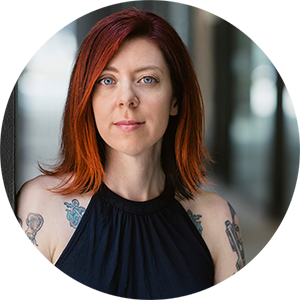
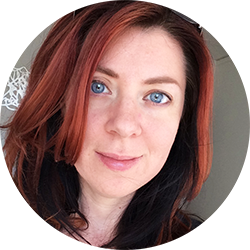
Update About page with edited text and new photo

diff --git a/about/index.html b/about/index.html
@@ -7,61 +7,13 @@ title: About
 
 <p>I’m a technologist and writer in Chicago. <!-- I make the <a href="http://antiheroinepodcast.com">Antiheroine</a> podcast -->I publish a weekly email newsletter called <a href="https://modernadventuress.com">Modern Adventuress</a> and write other things here and there around the internet.</p>
 
-<p>I have a background as a front-end web developer, tech educator and a diversity and inclusion advocate. In 2011, I became a chapter founder and teacher with <a href="http://girldevelopit.com">Girl Develop It</a>, a nonprofit organization aimed at providing coding classes for women, and in 2013 I founded and taught <a href="http://codeandcupcakes.net">Code and Cupcakes Chicago</a>, a series of coding workshops for mothers and daughters. I currently am a Senior Curriculum Developer at <a href="http://flatironschool.com">Flatiron School</a>. I have <a href="{{ site.baseurl }}/speaking/">spoken</a> extensively about web design and development, diversity/inclusion and tech education, and I sometimes <a href="{{ site.baseurl }}/mentoring/">mentor</a> beginning tech speakers from underrepresented minorities.</p>
+<p>I have a background as a front-end web developer, tech educator and a diversity and inclusion advocate. In 2011, I founded the Columbus, Ohio chapter of <a href="http://girldevelopit.com">Girl Develop It</a>, a nonprofit organization aimed at providing coding classes for women, and in 2013 I founded and taught <a href="http://codeandcupcakes.net">Code and Cupcakes Chicago</a>, a series of coding workshops for mothers and daughters. I currently am a senior curriculum writer at <a href="http://flatironschool.com">Flatiron School</a>. I have <a href="{{ site.baseurl }}/speaking/">spoken</a> widely about web design and development, diversity/inclusion and tech education, and I sometimes <a href="{{ site.baseurl }}/mentoring/">mentor</a> beginning tech speakers from underrepresented minorities.</p>
 
-<p>You can follow me on <a href="http://twitter.com/antiheroine">Twitter</a>. You can see my read books at <a href="http://goodreads.com/jenmyers">Goodreads</a> and watched films at <a href="http://letterboxd.com/jenmyers">Letterboxd</a>. I keep a comprehensive yearly <a href="{{ site.baseurl }}/log/">media log</a> as well. You can also send me actual mail, which might receive actual mail in return, at:</p>
+<p>I keep a comprehensive yearly <a href="{{ site.baseurl }}/log/">media log</a> if you're interested in the books, films, podcasts and performances I take in.</p>
+
+<p>You can follow me on Twitter at <a href="http://twitter.com/antiheroine">@antiheroine</a>. You can send me email at <a href="mailto:hello@jenmyers.net">hello@jenmyers.net</a>. You can also send me actual mail, which might receive actual mail in return, at:</p>
 
 <address>
-  P.O. Box #13114<br />
+  P.O. Box 13114<br />
   Chicago, IL 60613<br />
 </address>
-
-<h4 class="content-heading">Activities</h4>
-
-<ul>
-  <li><a href="http://railsgirlssummerofcode.org/">Rails Girls Summer of Code</a> Trust Committee member, 2014 &amp; 2015</li>
-  <li></li>
-  <li><a href="http://www.codemash.org/">Codemash</a> Design track selection, 2015 &amp; 2016</li>
-  <li><a href="http://sassconf.com/blog/posts/cfp-mentor-team/">SassConf mentoring team</a> member, 2015</li>
-  <li><a href="http://clojurecup.com/">Clojure Cup judge, 2013 &amp; 2014</a></li>
-</ul>
-
-<h4 class="content-heading">Interviews/Articles</h4>
-
-<ul>
-  <li><a href="https://usesthis.com/interviews/jen.myers/">The Setup interview</a></li>
-  <li><a href="http://www.brit.co/how-learning-to-code-changed-the-lives-of-these-6-moms/">Brit.co interview with Girl Develop It mothers</a></li>
-  <li><a href="http://chicagoinno.streetwise.co/2015/04/21/mother-daughter-programming-workshop-brings-women-together-over-code-and-cupcakes/">ChicagoInno article/interview about Code and Cupcakes</a></li>
-  <li><a href="http://www.dnainfo.com/chicago/20150220/pilsen/code-cupcakes-brings-mothers-daughters-together-over-programming">DNAinfo Chicago article/interview about Code and Cupcakes</a></li>
-  <li><a href="http://www.themarysue.com/jen-myers-code-and-cupcakes-interview/"><em>The Mary Sue</em> interview</a></li>
-  <li><a href="http://www.themarysue.com/code-and-cupcakes-workshop/"><em>The Mary Sue</em> article on Code and Cupcakes</a></li>
-  <li><a href="http://www.huffingtonpost.com/2015/01/06/code-and-cupcakes-moms-daughters-coding-workshop_n_6419666.html"><em>Huffington Post Chicago</em> article on Code and Cupcakes</a></li>
-  <li><a href="http://www.motherboardpodcast.com/episode-7-jen-myers/">Motherboard podcast interview</a></li>
-  <li><a href="http://ms-tech.co/10-women-impacting-tech-startup-scene-chicago-ii/">"Ten women impacting the tech startup scene in Chicago"</a></li>
-  <li><a href="http://dotnetrocks.com/default.aspx?showNum=1053">.NET Rocks podcast interview</a></li>
-  <li><a href="http://wgntv.com/2014/10/20/your-money-matters-code-and-cupcakes/">WGN midday news spot on Code and Cupcakes</a></li>
-  <li><a href="http://www.chicagotribune.com/bluesky/originals/chi-jen-myers-code-and-cupcakes-bsi-20140930-story.html"><em>Chicago Tribune Blue Sky Innovation</em> article on Code and Cupcakes</a></li>
-  <li><a href="http://hoist.io/blog/hoist-interviews-wdcnz-jen-myers/">Hoist interview at WDCNZ</a></li>
-  <li><a href="http://www.cfhour.com/post.cfm/show-215-conferences-keynotes-diversity-and-more">CFHour Podcast interview</a></li>
-  <li><a href="http://www.gomediazine.com/insights/learn-to-code-quick-tips/">Learn to Code: Tips for Designers</a></li>
-  <li><a href="http://digitalocean.com/blog_posts/20-developers-to-follow-in-2014">Digital Ocean's 20 Developers to Follow in 2014</a></li>
-  <li><a href="http://thetabletshow.com/?ShowNum=110">The Tablet Show podcast interview</a></li>
-  <li><a href="http://theweek.com/article/index/244732/5-women-busting-through-the-tech-industrys-glass-ceiling">"5 women busting through the tech industry's glass ceiling," <em>The Week</em></a></li>
-  <li><a href="http://chicago.cbslocal.com/video/8543310-coding-boot-camp-class-pops-up-in-chicago/">CBS Chicago television interview on Dev Bootcamp</a></li>
-  <li><a href="http://strangeloop.libsyn.com/strange-loop-8-a-cornucopia-of-diversity">Strange Loop podcast interview at Codemash</a></li>
-  <li><a href="http://www.dispatch.com/content/stories/life_and_entertainment/2012/11/26/defying-gender-codes.html">"Defying Gender Codes," <em>Columbus Dispatch</em></a></li>
-  <li><a href="http://ugtastic.com/interviews/the-digital-natives-are-restless">UGtastic video interview at SCNA</a></li>
-  <li><a href="http://blog.runtimeexpectations.com/rte/2012/11/28/runtime-expectations-at-clojure-conj-2012/">Runtime Expectations podcast interview at Clojure Conj</a></li>
-  <li><a href="http://www.engineyard.com/podcast/s02e09-girl-develop-it">Engine Yard "Chicks Who Rip" podcast interview</a></li>
-  <li><a href="http://wmcfest.com/blog/speakers/jen-myers/">Weapons of Mass Creation Fest speaker blog interview</a></li>
-  <li><a href="http://thinkrelevance.com/blog/2012/05/04/thinkrelevance-the-podcast-episode-011-jen-myers">ThinkRelevance podcast interview</a></li>
-</ul>
-
-<!-- <h4 class="content-heading">Selected Interviews/Articles</h4>
-
-<ul>
-  <li><a href="http://www.themarysue.com/jen-myers-code-and-cupcakes-interview/"><em>The Mary Sue</em> interview</a></li>
-  <li><a href="http://www.themarysue.com/code-and-cupcakes-workshop/"><em>The Mary Sue</em> article on Code and Cupcakes</a></li>
-  <li><a href="http://www.huffingtonpost.com/2015/01/06/code-and-cupcakes-moms-daughters-coding-workshop_n_6419666.html"><em>Huffington Post Chicago</em> article on Code and Cupcakes</a></li>
-  <li><a href="http://www.motherboardpodcast.com/episode-7-jen-myers/">Motherboard podcast interview</a></li>
-</ul> -->
